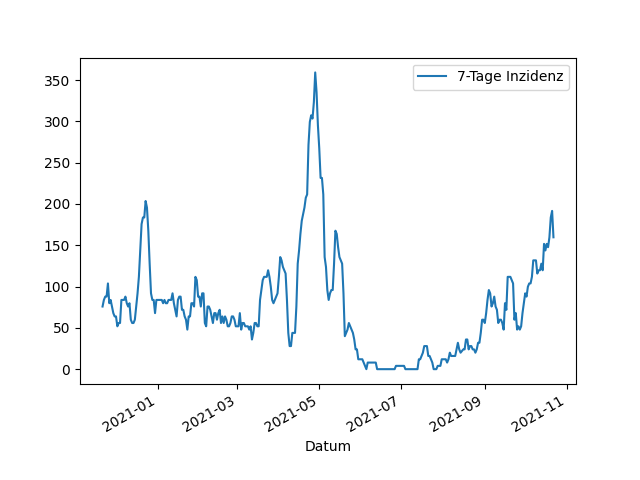
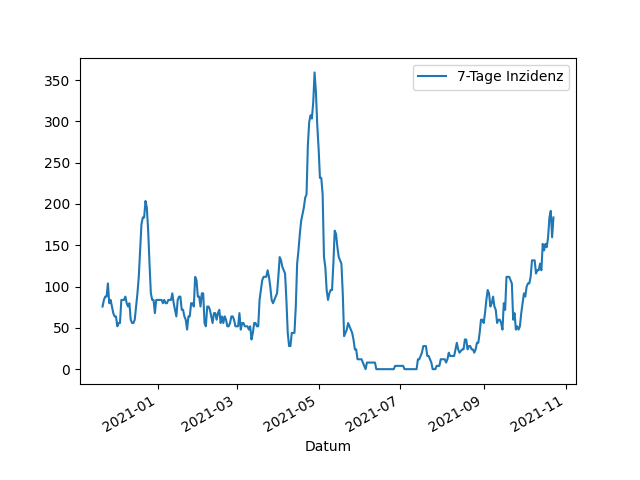
Update images

diff --git a/_includes/aktuelle_inzidenz.md b/_includes/aktuelle_inzidenz.md
@@ -1,1 +1,1 @@
-159,7
+183,6
